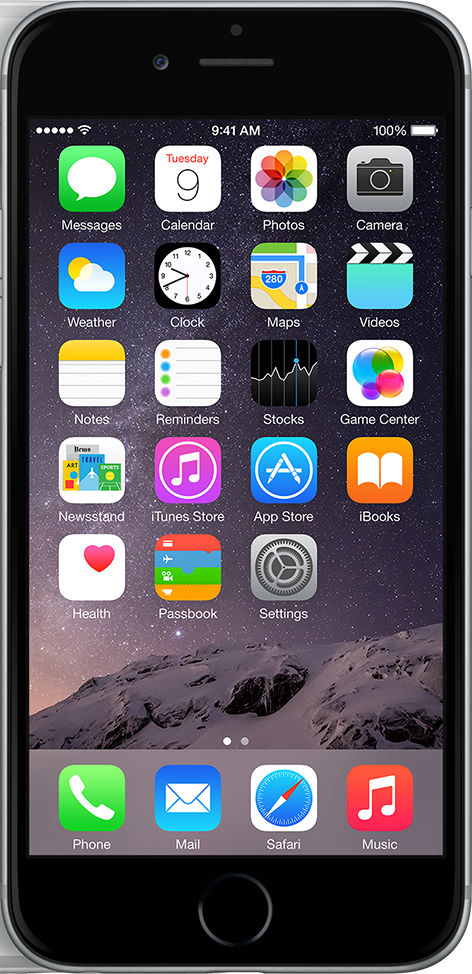
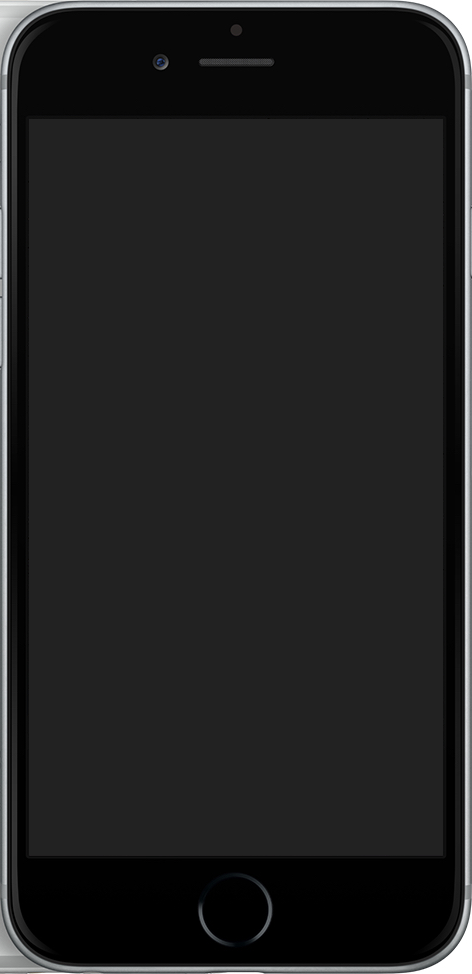
I now have the edge and face almost the perfect size.

diff --git a/js/script.js b/js/script.js
@@ -15,6 +15,12 @@
 
     edge.attr({mask: group});
 
+    var edgeCorrectSize = s.rect(0, 0, 100, 207.5, 14.64).attr({
+        stroke: "red",
+        strokeWidth: 0.25,
+        fill: "none"    
+    });
+
     var squareTL = s.rect(0, 14, 3, 3).attr({
         //fill: "rgba(0, 0, 0, 0.5)" 
         fill: "none"
@@ -47,6 +53,13 @@
             // UNCOMMENT!
             //filter: faceFilter
         });
+
+    var faceCorrectSize = s.rect(1.3, 1.3, 97.4, 204.8, 13.32, 13.32).attr({
+        stroke: "red", 
+        strokeWidth: 0.25, 
+        fill: "none"
+    
+    });
     
     var glareGradient = s.gradient("l(0, 0, 1, 0.8)rgba(255, 255, 255, 0.18)-rgba(255, 255, 255, 0.09)"),
         glare = s.rect(2.713, 3.1, 94.575, 197.8, 12.096).attr({

diff --git a/style/stylesheets/screen.css b/style/stylesheets/screen.css
@@ -112,29 +112,28 @@ section #guide {
   top: 50%;
   left: 50%;
   transform: translate(-50%, -50%);
-  opacity: 0.2;
-  display: none;
 }
-/* line 50, ../sass/screen.scss */
+/* line 48, ../sass/screen.scss */
 section #mysvg {
   position: absolute;
   top: 50%;
   left: 50%;
   width: 20%;
   transform: translate(-50%, -50%);
+  z-index: 100;
 }
 
-/* line 60, ../sass/screen.scss */
+/* line 58, ../sass/screen.scss */
 section:nth-of-type(1) {
   background: aquamarine;
 }
 
-/* line 64, ../sass/screen.scss */
+/* line 62, ../sass/screen.scss */
 section:nth-of-type(2) {
   background: #444;
 }
 
-/* line 68, ../sass/screen.scss */
+/* line 66, ../sass/screen.scss */
 section:nth-of-type(3) {
   background: #666;
 }

diff --git a/index.html b/index.html
@@ -13,10 +13,10 @@
     <body>
         <section>
             <img src="assets/iphone-6-plus.jpg" id="iphone">
-            <svg id="mysvg" viewBox="-0.25 -0.25 100.5 204.5"></svg>
+            <svg id="mysvg" viewBox="-0.25 -0.25 100.5 208"></svg>
             <script src="js/script.js"></script>
             <script src="js/tween.js"></script>
-            <img id="guide" src="iphone_ref.png">
+            <img id="guide" src="guide.png">
         </section>
         <section></section>
         <section></section>

diff --git a/style/sass/screen.scss b/style/sass/screen.scss
@@ -43,8 +43,6 @@ section {
         top: 50%;
         left: 50%;
         transform: translate(-50%, -50%);
-        opacity: 0.2;
-        display: none;
     }
 
     #mysvg {
@@ -53,7 +51,7 @@ section {
         left: 50%;
         width: 20%;
         transform: translate(-50%, -50%);
-        //opacity: 0.5;
+        z-index: 100;
     }
 }
 
